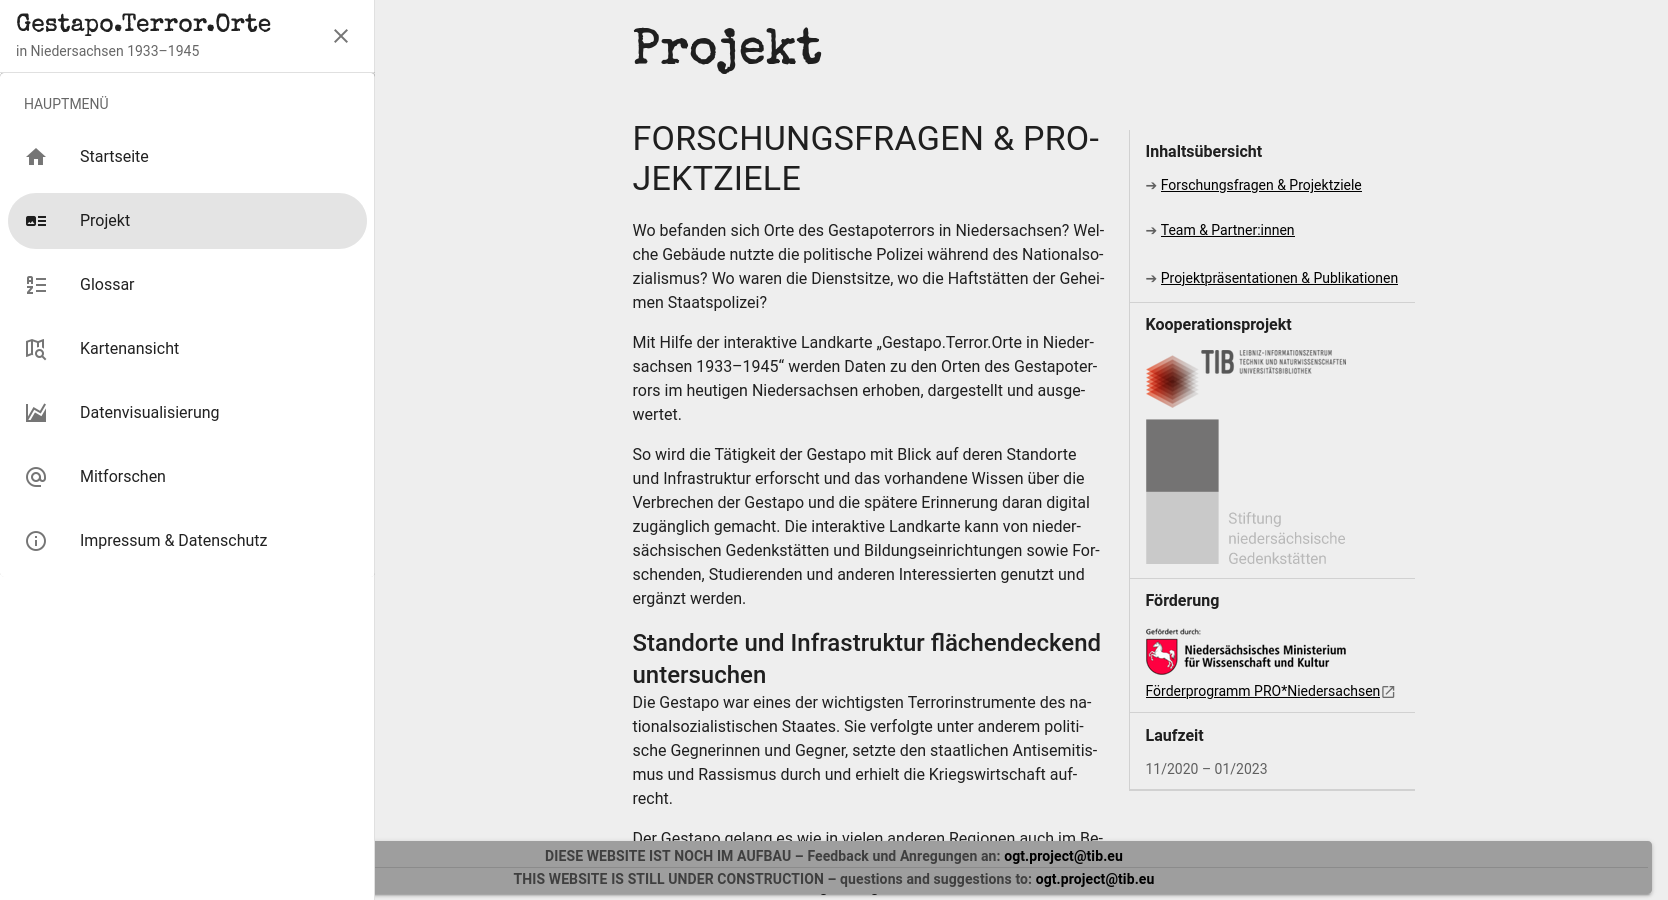
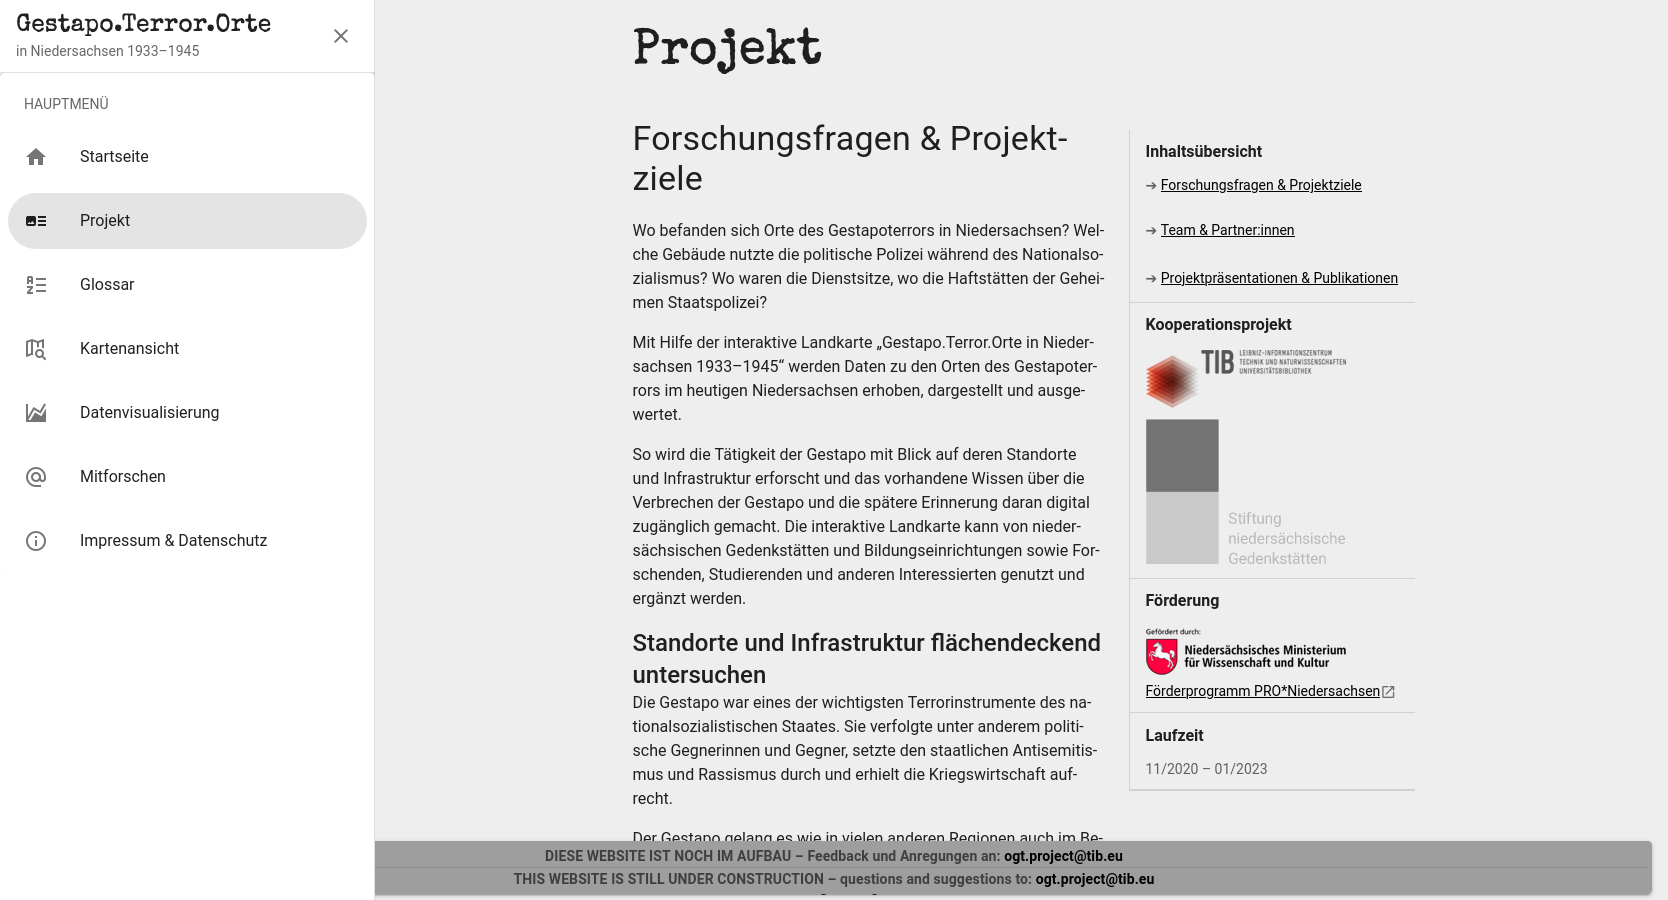
[OGT-361] Unset capitalization for project text headings and updated preview image.

Changed region(s): [[0.3741, 0.1244, 0.6547, 0.2178]]

diff --git a/resources/js/components/Project.vue b/resources/js/components/Project.vue
@@ -20,7 +20,7 @@
             <!-- scrollable content -->
             <v-col class="hyphens-auto" lang="de">
                 <section id="researchObjectives">
-                    <h1 class="text-h5 text-md-h4 mb-5 text-uppercase">
+                    <h1 class="text-h5 text-md-h4 mb-5">
                         Forschungsfragen & Projektziele
                     </h1>
                     <p>
@@ -106,7 +106,7 @@
                 <v-divider class="my-6"></v-divider>
 
                 <section id="teamAndPartners">
-                    <h1 class="text-h5 text-md-h4 mb-5 text-uppercase">
+                    <h1 class="text-h5 text-md-h4 mb-5">
                         Team & Partner:innen
                     </h1>
                     <p>
@@ -269,7 +269,7 @@
                 <v-divider class="my-6"></v-divider>
 
                 <section id="presentationsAndPublications">
-                    <h1 class="text-h5 text-md-h4 mb-5 text-uppercase">
+                    <h1 class="text-h5 text-md-h4 mb-5">
                         Projektpräsentationen & Publikationen
                     </h1>
                     <h2 class="font-weight-medium text-h6 text-md-h5">
